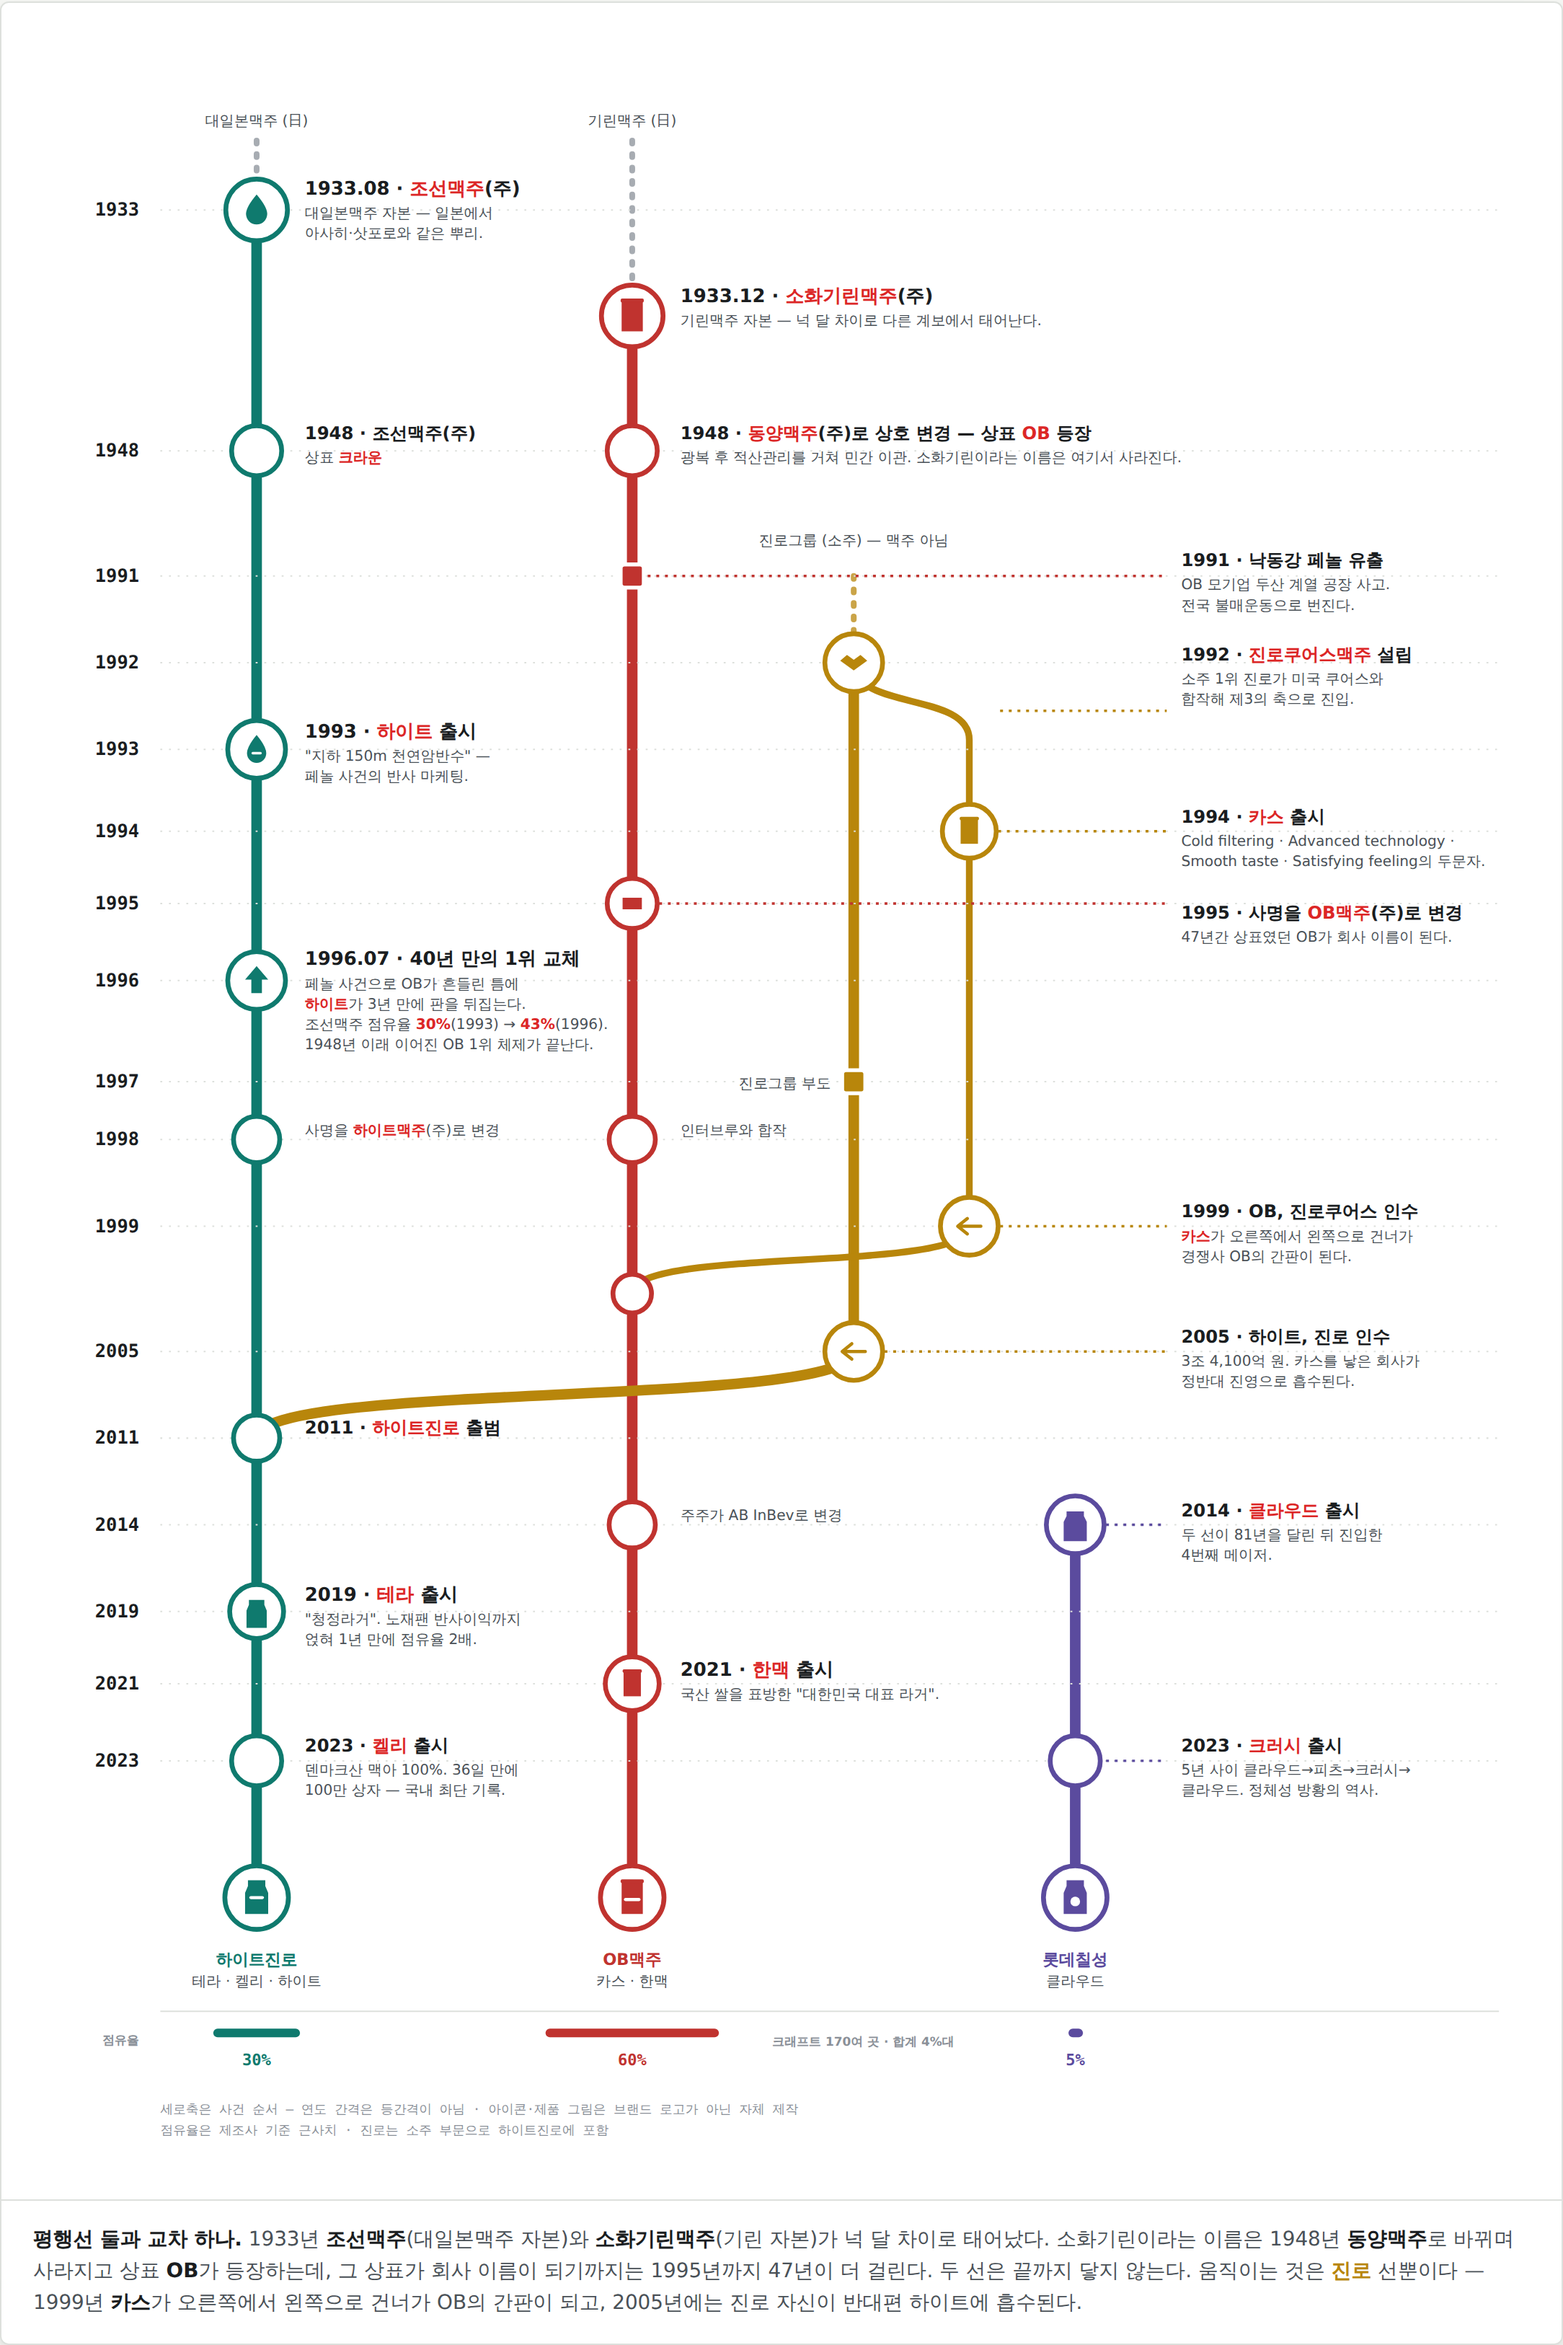
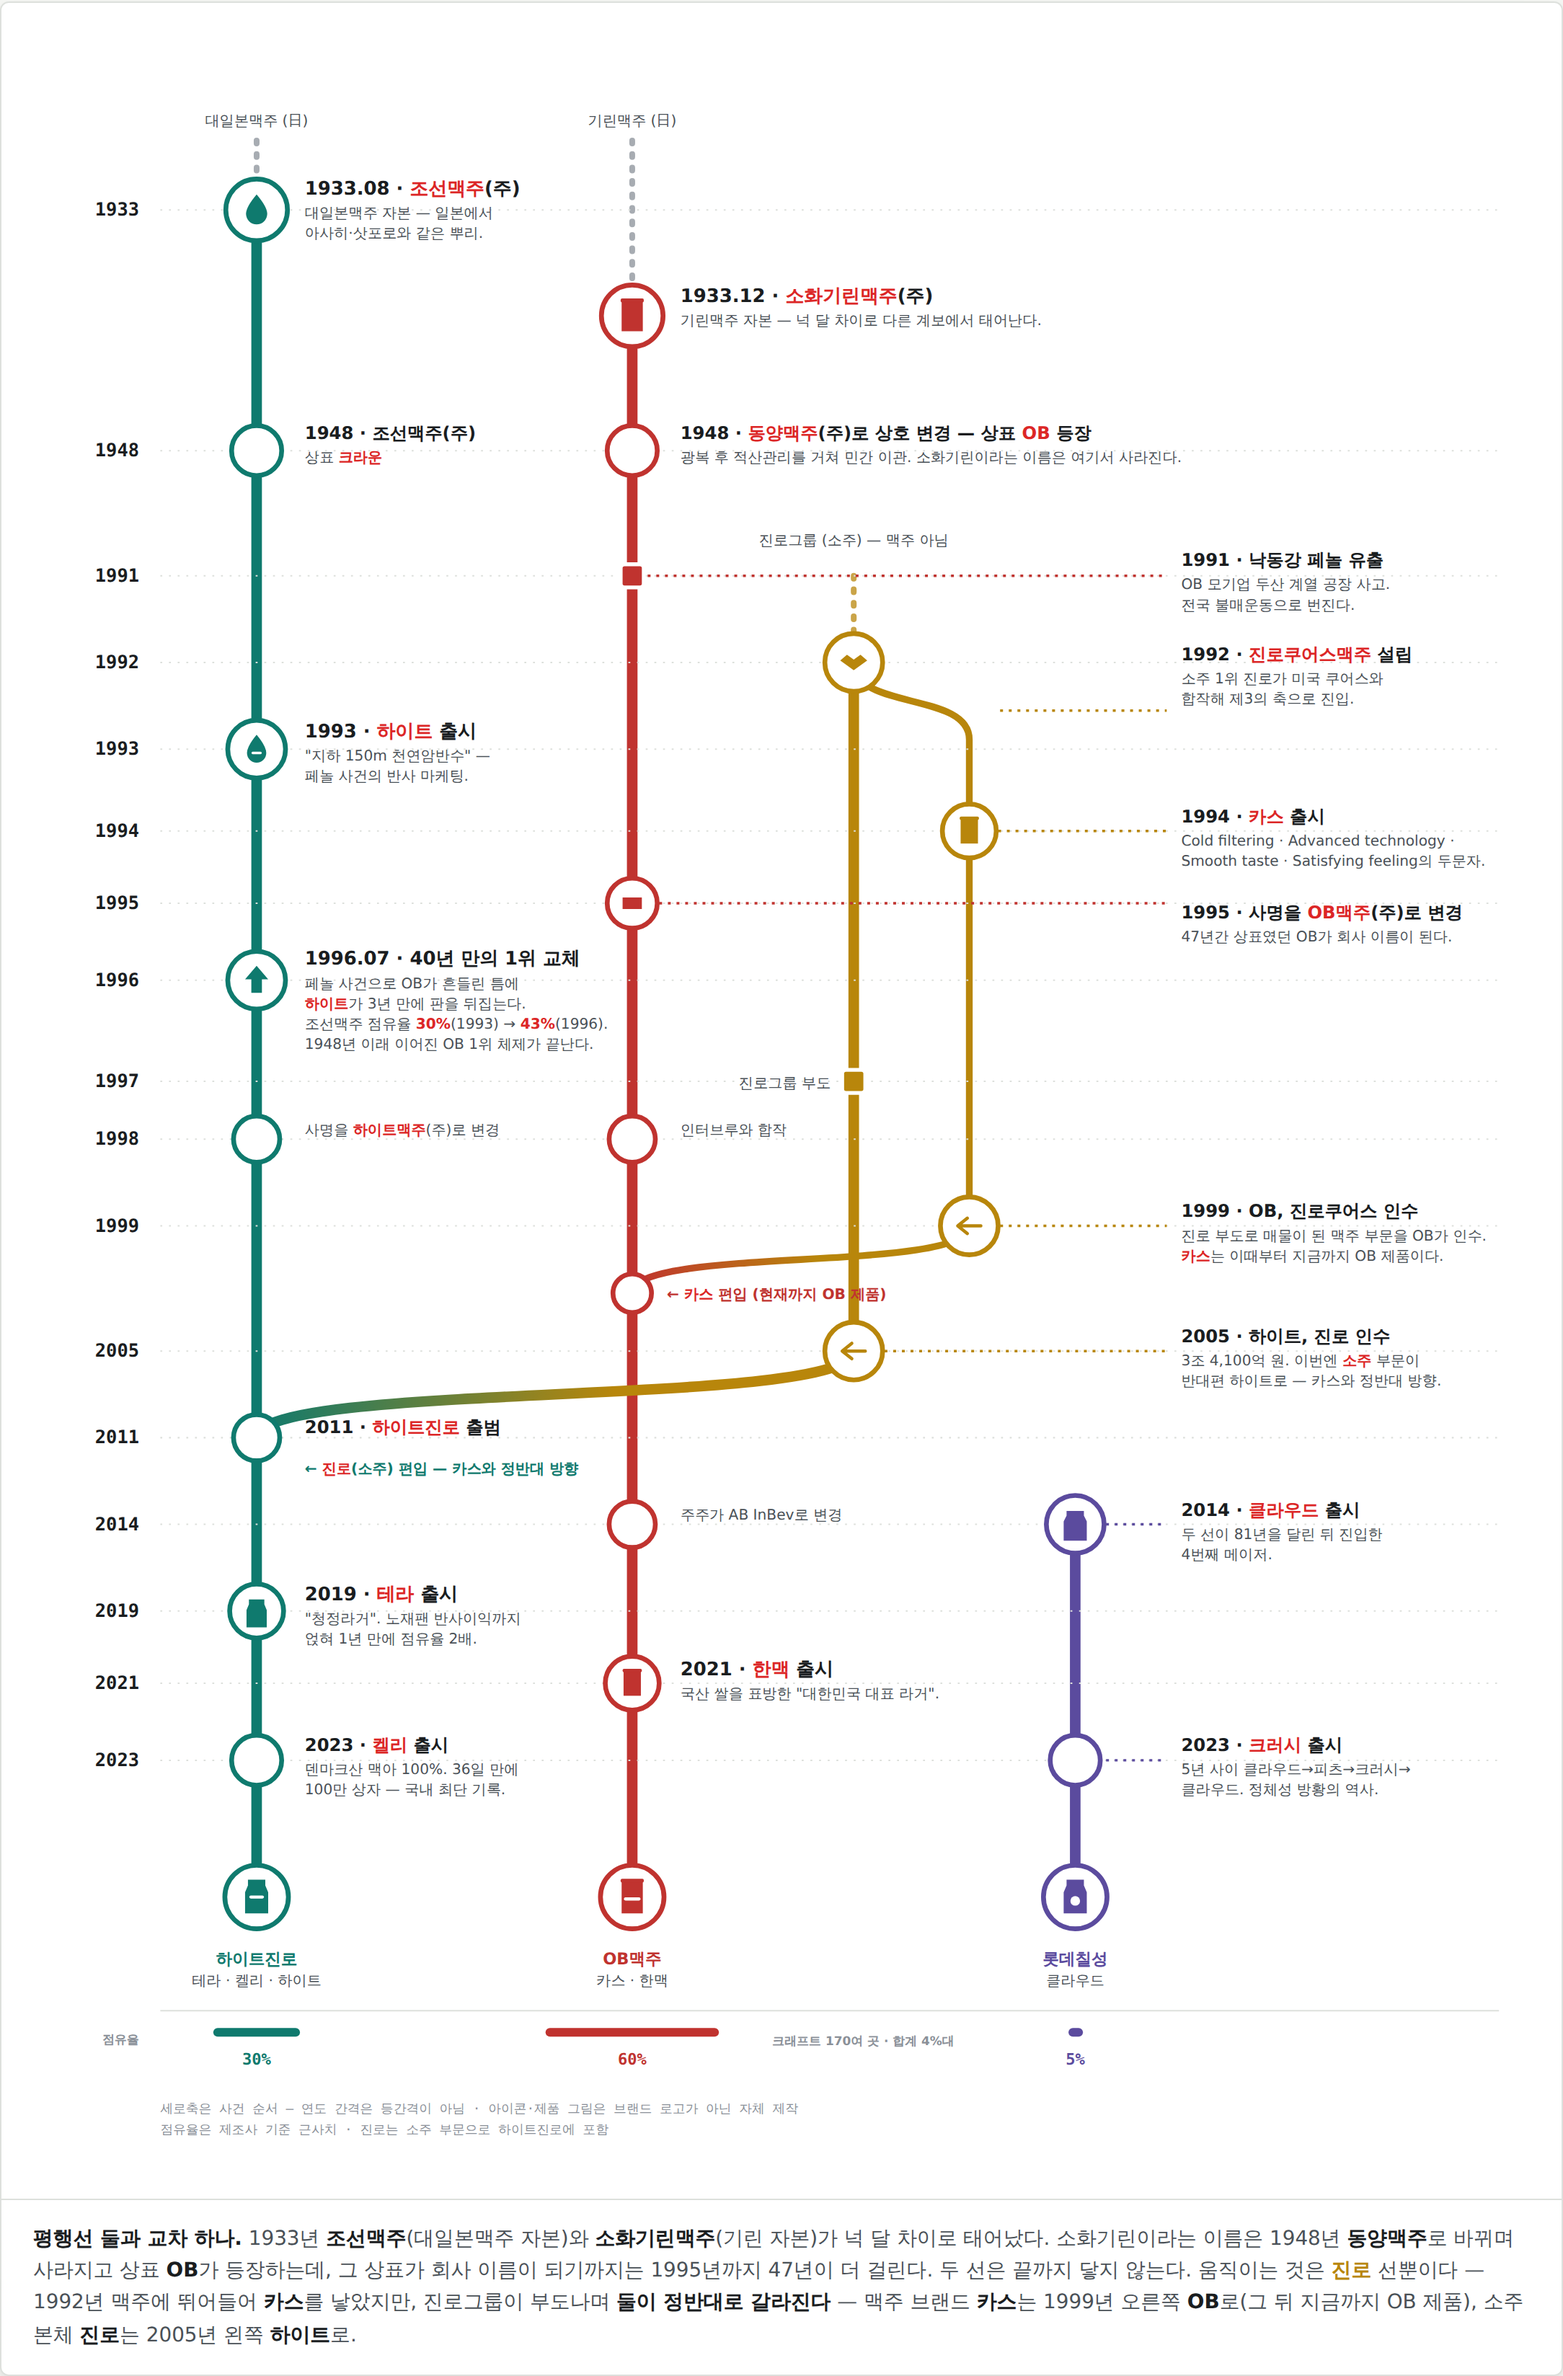
Distinguish the two Jinro crossings by destination
Both 1999 and 2005 were drawn as identical gold arrows pointing left,
which read as one thing moving twice — a reader could conclude Cass went
to OB and then on to Hite. It did not: Cass crossed to OB in 1999 and has
been an OB product ever since, while the separate soju company Jinro
crossed to Hite in 2005.

Stroke each crossing with a gradient that resolves to its destination's
color, so the Cass line lands red in OB and the Jinro line lands teal in
Hite, and label each landing with what actually arrived. Rewrite the two
annotations to name the moving party instead of describing direction.

Claude-Session: https://claude.ai/code/session_01KUBqCbH6Pr7kL3zk5exDHD

diff --git a/genealogy/kr-infographic.html b/genealogy/kr-infographic.html
@@ -63,6 +63,14 @@
 </header>
 <figure><div class="canvas">
 <svg viewBox="0 0 1590 2250" role="img" aria-label="한국 맥주 계보도. 1933년 조선맥주와 소화기린맥주가 서로 다른 일본 자본으로 설립되고, 1948년 소화기린은 동양맥주로 바뀌며 상표 OB가 등장한 뒤 1995년 사명까지 OB맥주가 된다. 두 선은 90년간 만나지 않는다. 1992년 진로쿠어스가 세워져 1994년 카스를 내지만 1999년 카스는 OB로, 2005년 진로 자신은 하이트로 넘어가며 두 선이 교차한다. 롯데는 2014년 클라우드로 진입한다.">
+<defs>
+<linearGradient id="g99" x1="990" y1="0" x2="640" y2="0" gradientUnits="userSpaceOnUse">
+  <stop offset="0" stop-color="var(--jinro)"/><stop offset="0.45" stop-color="var(--jinro)"/><stop offset="1" stop-color="var(--ob)"/>
+</linearGradient>
+<linearGradient id="g05" x1="870" y1="0" x2="250" y2="0" gradientUnits="userSpaceOnUse">
+  <stop offset="0" stop-color="var(--jinro)"/><stop offset="0.4" stop-color="var(--jinro)"/><stop offset="1" stop-color="var(--hite)"/>
+</linearGradient>
+</defs>
 <path class="rib g gh" d="M250 128 L250 200"/><path class="rib g gh" d="M640 128 L640 310"/>
 <text class="bd" x="250" y="112" text-anchor="middle">대일본맥주 (日)</text>
 <text class="bd" x="640" y="112" text-anchor="middle">기린맥주 (日)</text>
@@ -70,9 +78,9 @@
 <path class="rib b" d="M640 310 L640 1920"/>
 <path class="rib j gh" d="M870 580 L870 670"/>
 <path class="rib j" d="M870 670 L870 1385"/>
-<path class="rib j" d="M870 1385 C870 1445 250 1415 250 1475"/>
+<path class="rib" style="stroke:url(#g05)" d="M870 1385 C870 1445 250 1415 250 1475"/>
 <path class="rib j thin" d="M870 670 C870 720 990 700 990 750 L990 1255"/>
-<path class="rib j thin" d="M990 1255 C990 1305 640 1275 640 1325"/>
+<path class="rib thin" style="stroke:url(#g99)" d="M990 1255 C990 1305 640 1275 640 1325"/>
 <path class="rib t" d="M1100 1565 L1100 1920"/>
 <line class="grid" x1="150" y1="200" x2="1540" y2="200"/><text class="yr" x="128" y="206" text-anchor="end">1933</text>
 <line class="grid" x1="150" y1="450" x2="1540" y2="450"/><text class="yr" x="128" y="456" text-anchor="end">1948</text>
@@ -163,17 +171,19 @@
 <g transform="translate(990,1255)"><path d="M12 0 h-20 M-2 -8 l-10 8 10 8" fill="none" stroke="var(--jinro)" stroke-width="3.4" stroke-linecap="round" stroke-linejoin="round"/></g>
 <path d="M1022 1255 H1195" stroke="var(--jinro)" stroke-width="2.6" stroke-dasharray="3 6" fill="none"/>
 <text class="hd fj" x="1210" y="1246" style="font-size:18.2px">1999 · OB, 진로쿠어스 인수</text>
-<text class="bd" x="1210" y="1270"><tspan class="pr">카스</tspan>가 오른쪽에서 왼쪽으로 건너가</text>
-<text class="bd" x="1210" y="1291">경쟁사 OB의 간판이 된다.</text>
+<text class="bd" x="1210" y="1270">진로 부도로 매물이 된 맥주 부문을 OB가 인수.</text>
+<text class="bd" x="1210" y="1291"><tspan class="pr">카스</tspan>는 이때부터 지금까지 OB 제품이다.</text>
 <circle class="disc" cx="640" cy="1325" r="20" stroke="var(--ob)"/>
+<text class="bd" x="676" y="1331" style="font-weight:700;fill:var(--ob)">← <tspan class="pr">카스</tspan> 편입 (현재까지 OB 제품)</text>
 
 <circle class="disc" cx="870" cy="1385" r="30" stroke="var(--jinro)"/>
 <g transform="translate(870,1385)"><path d="M12 0 h-20 M-2 -8 l-10 8 10 8" fill="none" stroke="var(--jinro)" stroke-width="3.4" stroke-linecap="round" stroke-linejoin="round"/></g>
 <path d="M902 1385 H1195" stroke="var(--jinro)" stroke-width="2.6" stroke-dasharray="3 6" fill="none"/>
 <text class="hd fj" x="1210" y="1376" style="font-size:18.2px">2005 · 하이트, 진로 인수</text>
-<text class="bd" x="1210" y="1400">3조 4,100억 원. 카스를 낳은 회사가</text>
-<text class="bd" x="1210" y="1421">정반대 진영으로 흡수된다.</text>
+<text class="bd" x="1210" y="1400">3조 4,100억 원. 이번엔 <tspan class="pr">소주</tspan> 부문이</text>
+<text class="bd" x="1210" y="1421">반대편 하이트로 — 카스와 정반대 방향.</text>
 
+<text class="bd" x="300" y="1512" style="font-weight:700;fill:var(--hite)">← <tspan class="pr">진로</tspan>(소주) 편입 — 카스와 정반대 방향</text>
 <circle class="disc" cx="250" cy="1475" r="24" stroke="var(--hite)"/>
 <text class="hd" x="300" y="1470" style="font-size:18.2px">2011 · <tspan class="pr">하이트진로</tspan> 출범</text>
 
@@ -238,6 +248,6 @@
 소화기린이라는 이름은 1948년 <b>동양맥주</b>로 바뀌며 사라지고 상표 <b>OB</b>가 등장하는데,
 그 상표가 회사 이름이 되기까지는 1995년까지 47년이 더 걸린다.
 두 선은 끝까지 닿지 않는다. 움직이는 것은 <span style="color:var(--jinro);font-weight:700">진로</span> 선뿐이다 —
-1999년 <b>카스</b>가 오른쪽에서 왼쪽으로 건너가 OB의 간판이 되고, 2005년에는 진로 자신이 반대편 하이트에 흡수된다.
+1992년 맥주에 뛰어들어 <b>카스</b>를 낳았지만, 진로그룹이 부도나며 <b>둘이 정반대로 갈라진다</b> — 맥주 브랜드 <b>카스</b>는 1999년 오른쪽 <b>OB</b>로(그 뒤 지금까지 OB 제품), 소주 본체 <b>진로</b>는 2005년 왼쪽 <b>하이트</b>로.
 </figcaption>
 </figure></div>
